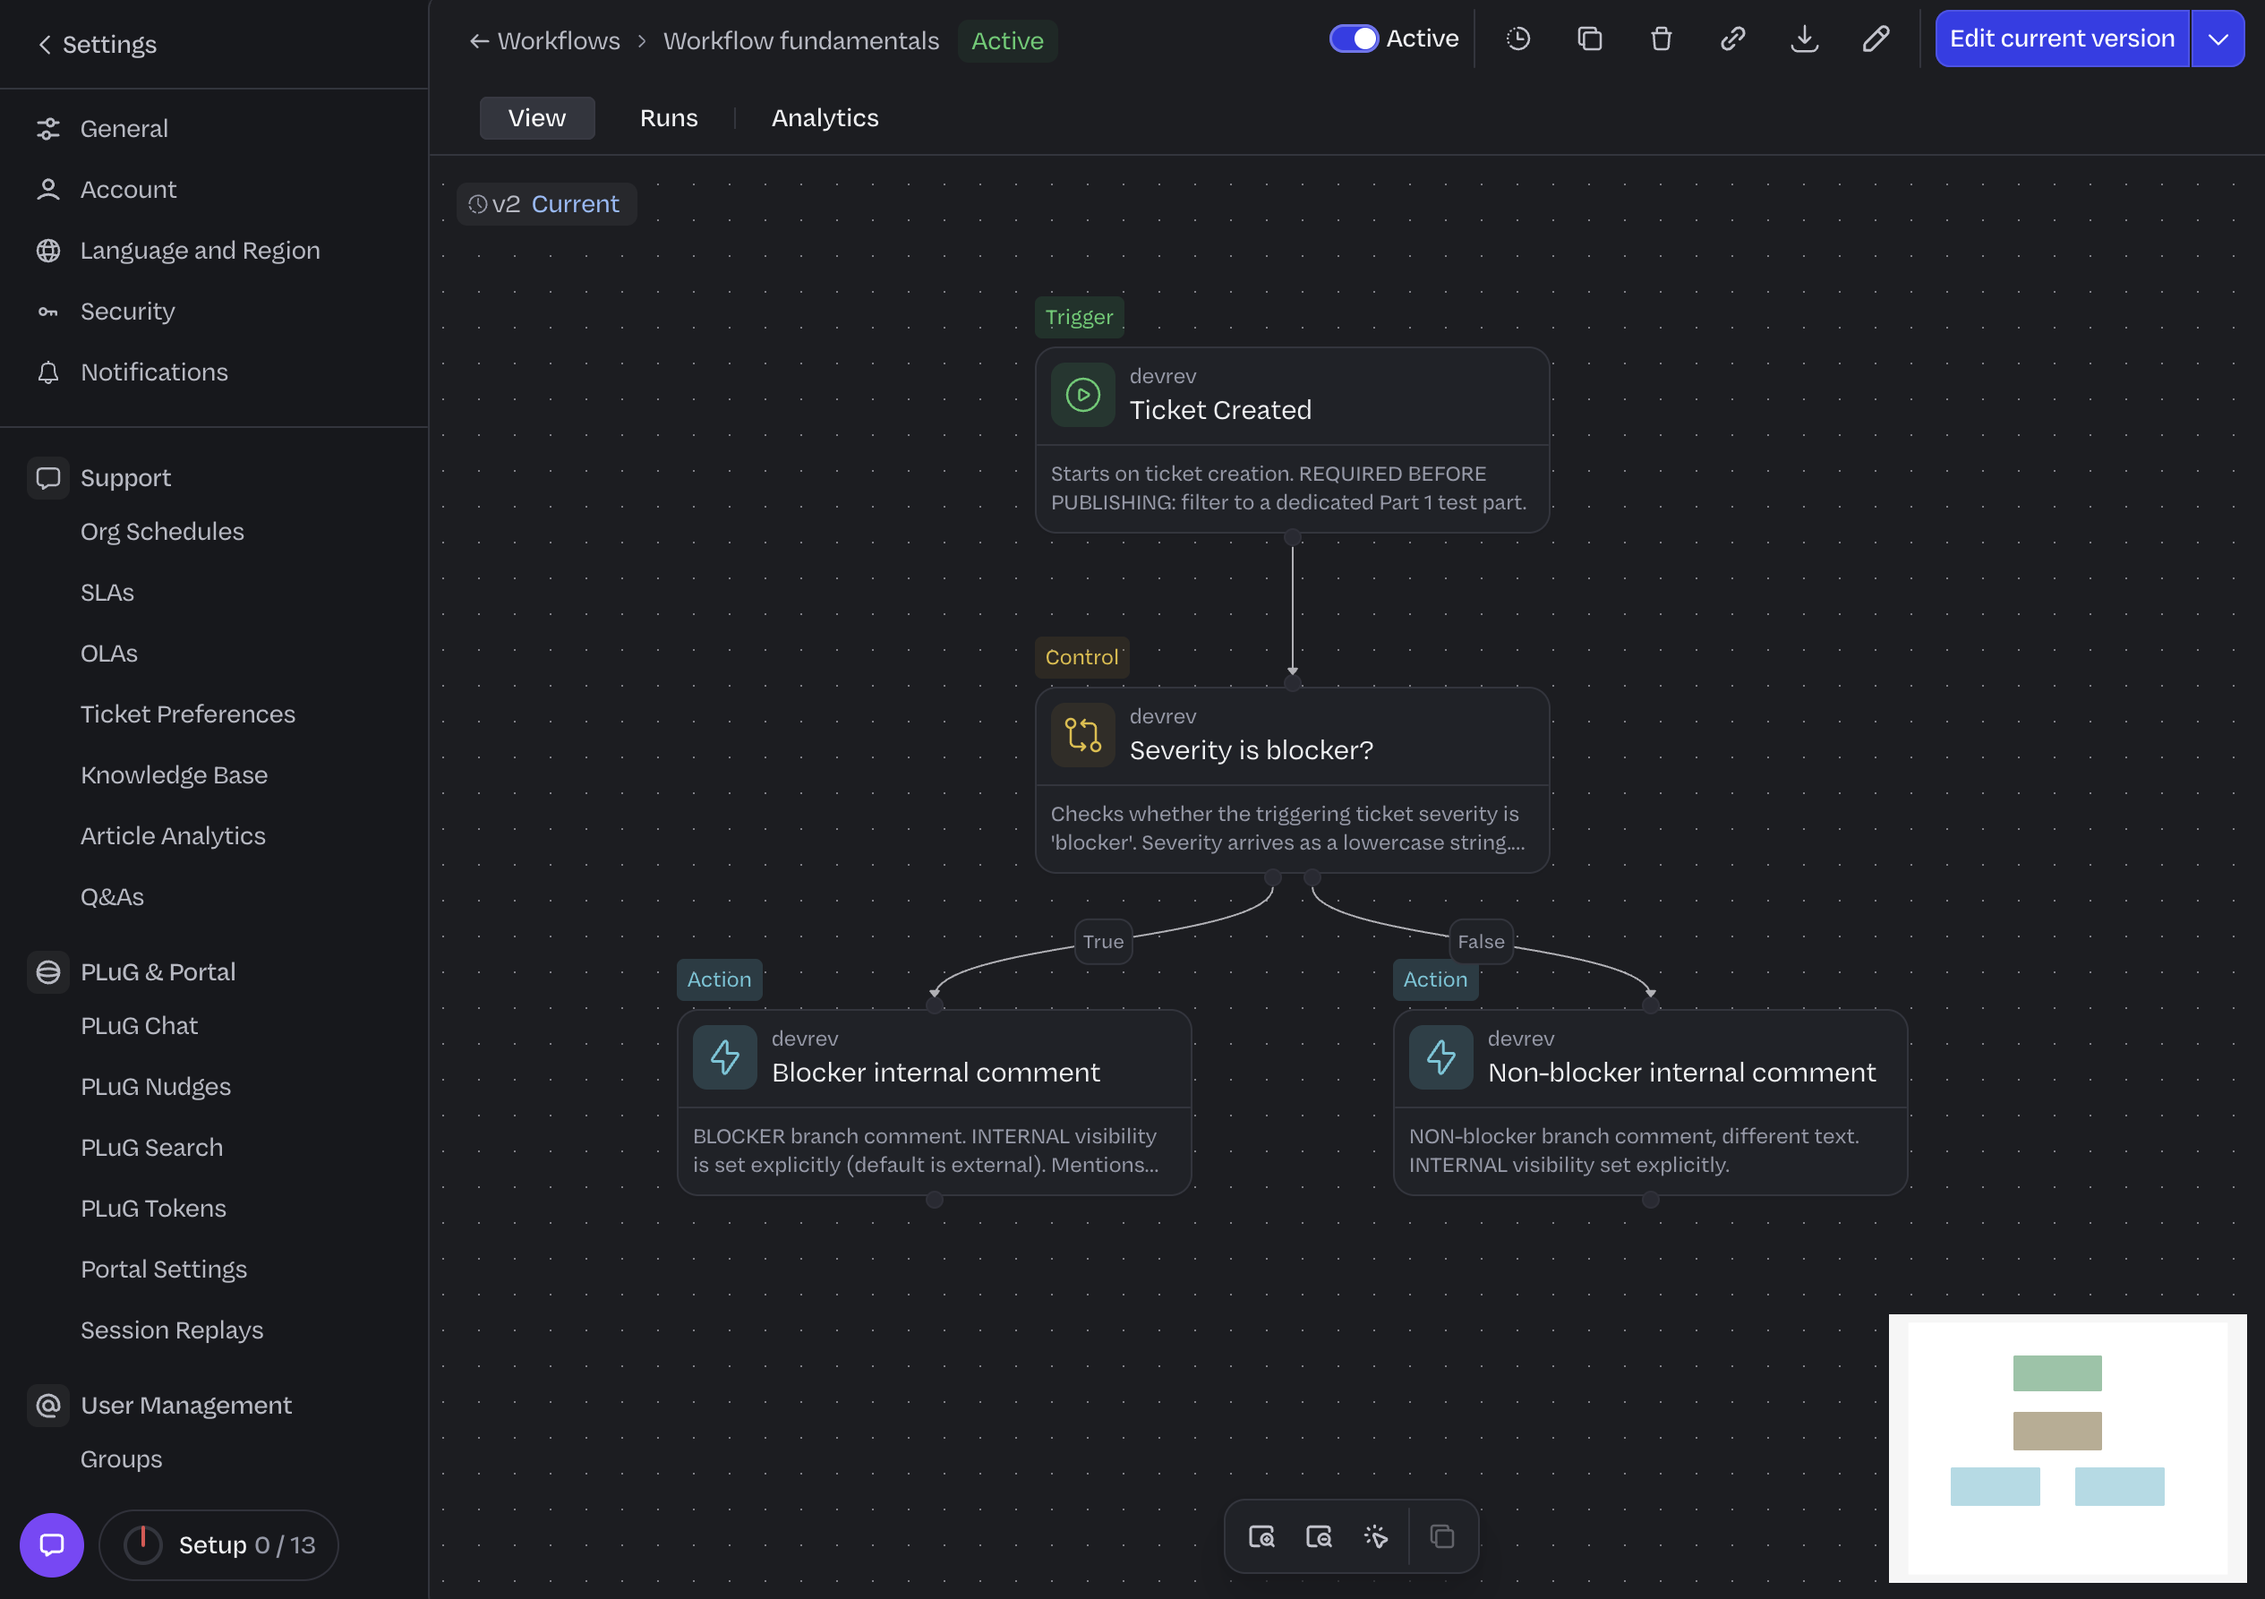
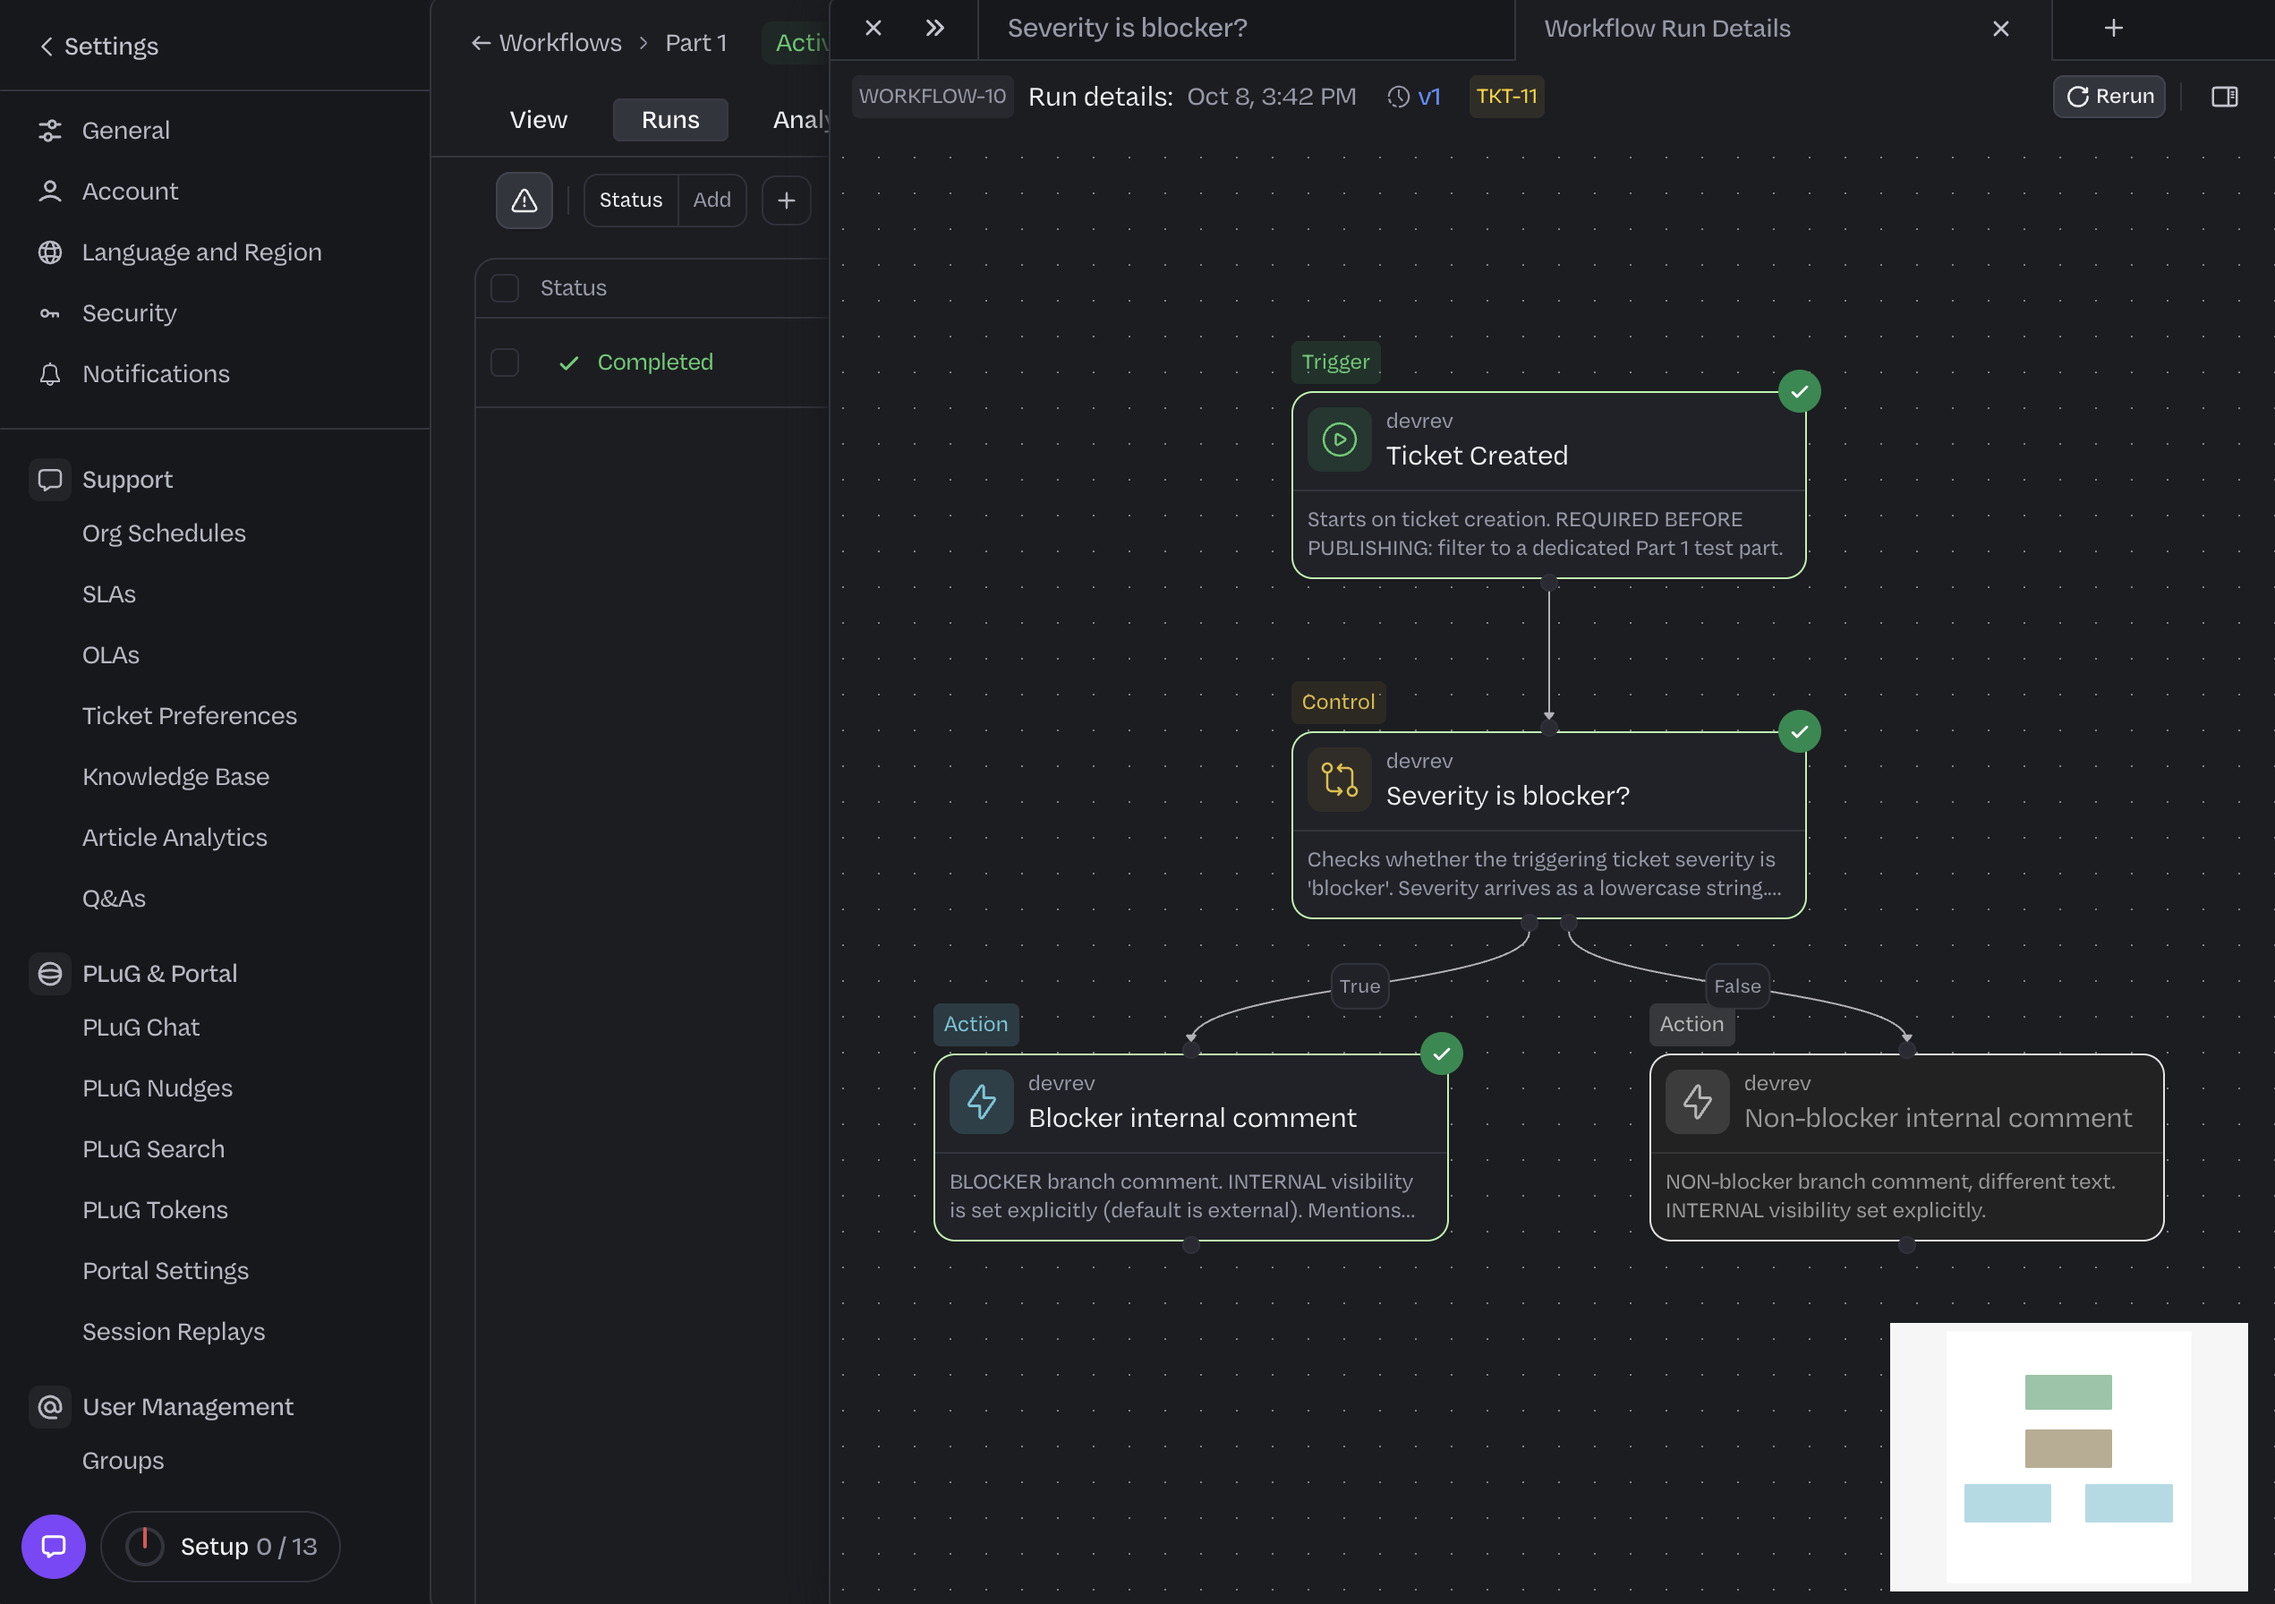
Updated part1

diff --git a/part1-ticket-severity-branch/screenshots/CHECKLIST.md b/part1-ticket-severity-branch/screenshots/CHECKLIST.md
@@ -1,6 +1,5 @@
 # Part 1 - screenshot checklist
 
-![alt text](image-1.png) - workflow canvas showing trigger -> If/Else -> both comment branches. workflow is now active.
-![alt text](image-3.png) - Runs tab showing a successful run (1)
-![alt text](image.png) - Runs tab showing a successful run (2)
+![alt text](image.png) - workflow canvas showing trigger -> If/Else -> both comment branches. workflow is now active.
+![alt text](image-1.png) - Runs tab showing a successful run
 ![alt text](image-2.png) - the ticket with the automated internal comment
